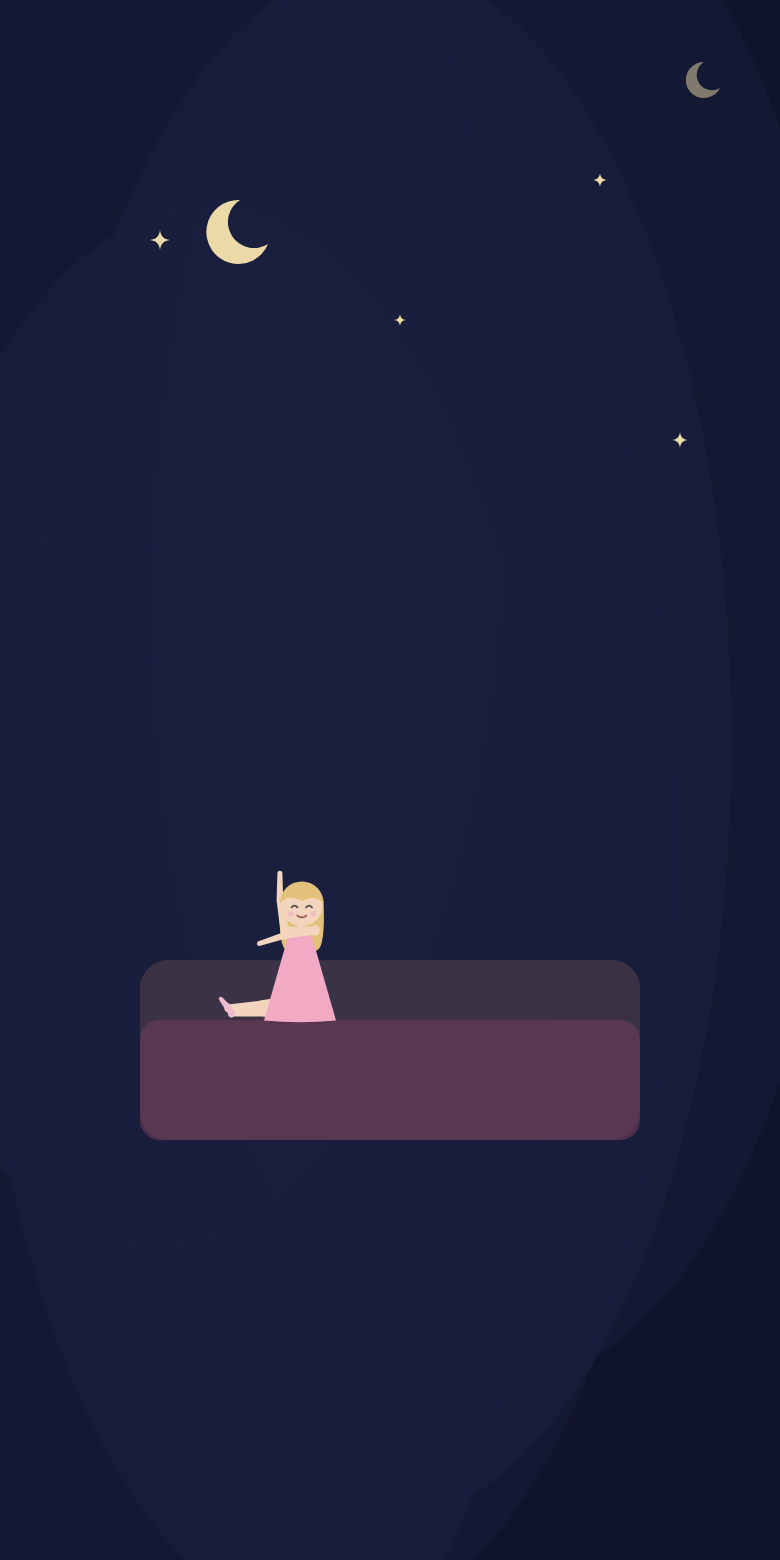
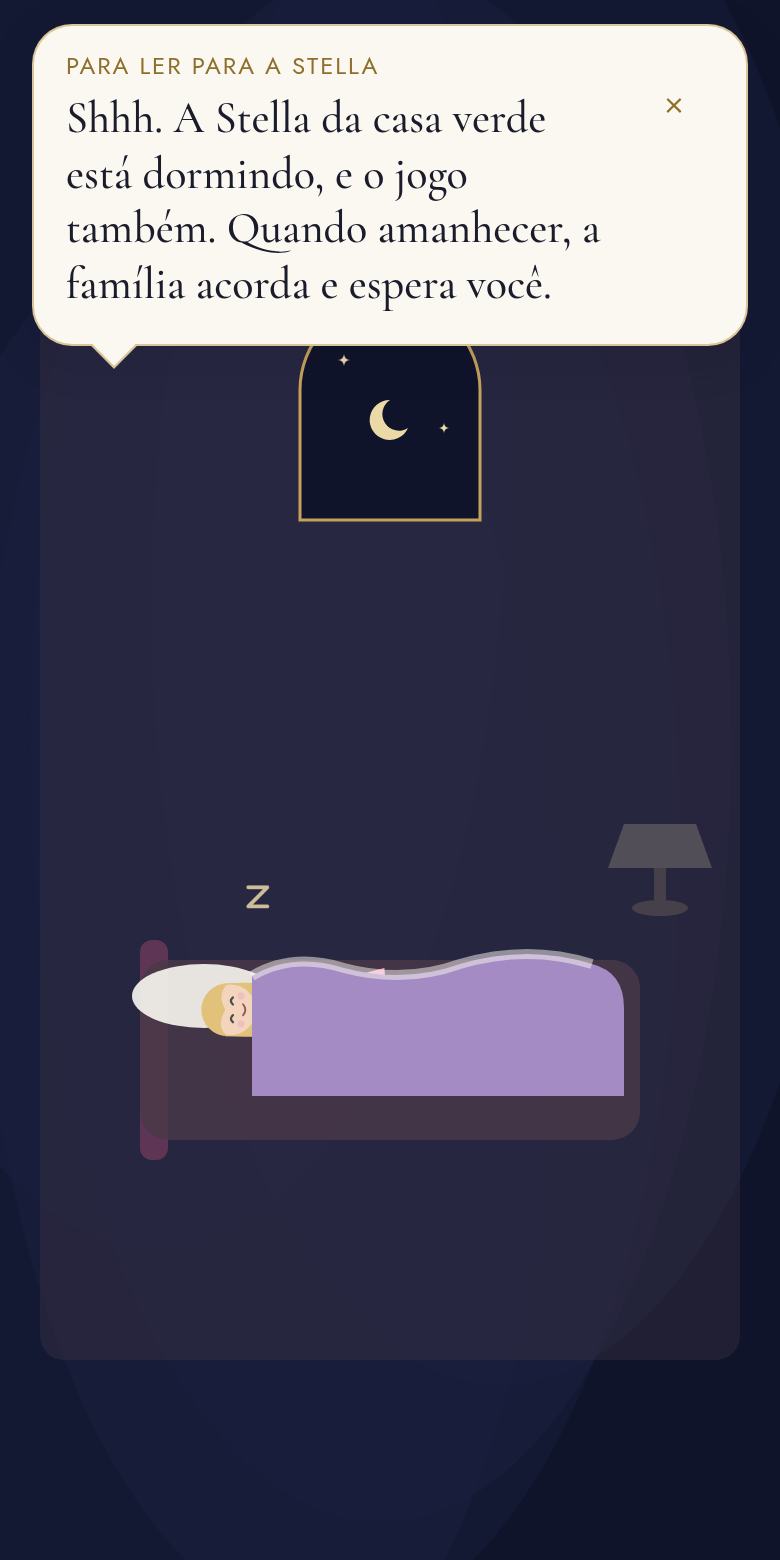
À noite dá para ver onde ela está: o quarto escuro, a Stella deitada, o gatinho, "zzz" subindo (#26)
* O jogo parava de parecer travado: trilha do avanço, fim que se vê e a areia com meta

O teste no celular: "na maioria das telas o jogo é meio travado; na caixa de
areia não fica claro o que fazer nem se estou avançando". Com a CPU seis vezes
mais lenta, todas as telas seguem a 60 quadros: não era lentidão. Era falta de
meta, de avanço e de fim, mais dois pontos que pareciam trava.

- `trilha()` em comum.ts: uma conta por rodada no alto, cheia de ouro quando
  feita, a estrelinha na de agora (o colar da palavra, virado sinal comum).
  Entrou na areia, no som, na roda, na noite, nos bichos, no caderno e no
  relógio. `convidarParaCasa()`: a casinha acende e a mãozinha aponta quando
  a volta de uma tela sem fim termina.
- Areia: no dedo, uma conta por letra e a mãozinha deixa rastro de luz; na
  pá, três montinhos com brilho mostram onde cavar; no balde, três baldes
  fazem um castelo com bandeirinha e o gatinho acende. Rastelo menor e
  tracejado. Com todas as letras (ou os três tesouros), a casinha convida.
- Bichos e relógio ganharam a mãozinha que faltava (o próximo cuidado; o Theo).
- Toque num alvo enquanto uma cena termina ganha o sininho baixinho, em vez
  de silêncio.
- O balão de narração se recolhe numa bolinha quando ela toca na cena, em
  vez de cobrir a casinha e a trilha; tocar na bolinha abre a frase de novo.

Claude-Session: https://claude.ai/code/session_012ZJ9mU6YXKwX84PbRrC1Hh

* A bolinha do balão fica abaixo da casinha, fora do varal da casa
[…]

diff --git a/src/telas/noite.ts b/src/telas/noite.ts
@@ -49,8 +49,9 @@ export function telaNoite(): Tela {
   };
   PASSOS.forEach((p, i) => {
     const [x, y] = pos[i]!;
-    /* o translate fica num <g> de fora: o toque e o mover() põem transform por CSS no alvo, e isso apagaria o atributo */
-    s += `<g transform="translate(${x} ${y})"><g data-passo="${p}" opacity="${feitos.has(p) ? 0.35 : 1}">${desenhos[p]}</g></g>`;
+    /* o translate fica num grupo de fora: o `mover` do toque troca o transform do de dentro.
+       Um quadrado invisível de 72 px faz o alvo inteiro (o livro aberto tem um vão no meio). */
+    s += `<g transform="translate(${x} ${y})"><g data-passo="${p}" opacity="${feitos.has(p) ? 0.35 : 1}"><rect x="-36" y="-36" width="72" height="72" fill="transparent"/>${desenhos[p]}</g></g>`;
   });
   s += `<g class="luz"></g>`;
   const tela = telaSvg(s, { lua: true, fundo: '#1b2140' });
@@ -123,9 +124,12 @@ export function telaNoite(): Tela {
   const dormir = async () => {
     travar(9000);
     const st = svg.querySelector('.stella') as SVGGElement;
-    st.innerHTML = familia.stella(150, 512, 90, 'deitado').svg;
-    const g = svg.querySelector('.gato');
-    if (g) mover(g, -60, -110, 1400);
+    svg.querySelector('.gato')?.remove();
+    st.style.transition = 'opacity 900ms';
+    st.style.opacity = '0';
+    await esperar(900);
+    st.innerHTML = stellaNaCama(!!e.bichos.gato);
+    st.style.opacity = '1';
     await esperar(800);
     /* o combinado: dormir no quarto dela, a noite toda; amanhã a gente conta */
     if (temVoz('noite_combinado')) await falar('noite_combinado');
@@ -149,21 +153,48 @@ export function telaNoite(): Tela {
 }
 
 /**
- * Dormindo: até de manhã, abrir o jogo mostra só a Stella dormindo e a
- * canção baixinha por 20 segundos, e depois silêncio. Nada responde ao
- * toque, a não ser a lua dos pais.
+ * A Stella deitada na cama: a cabeça no travesseiro, olhos fechados, a
+ * coberta até o pescoço. A marionete de pé, deitada de lado (girada), e a
+ * coberta por cima; só a cabeça aparece, e fica claro que ela dorme.
+ */
+export function stellaNaCama(gatinho: boolean): string {
+  let s = `<ellipse cx="102" cy="498" rx="36" ry="16" fill="#fbf8f1" opacity="0.9"/>`;
+  s += `<g transform="rotate(-90 212 506)">${familia.stella(212, 506, 110, 'parado').svg}</g>`;
+  s += `<path d="M126 488q20-12 46-4q30 8 58-2q34-10 66 0q16 4 16 22v44h-186z" fill="#a58bc4"/>`;
+  s += `<path d="M126 488q20-12 46-4q30 8 58-2q34-10 66 0" fill="none" stroke="#fbf8f1" stroke-width="5" opacity="0.5"/>`;
+  if (gatinho) s += gato(282, 492, 16, '#c8b8a6', true);
+  /* o sono: três "z" que sobem da cabeça, um de cada vez */
+  const z = (x: number, y: number, t: number, atraso: number) =>
+    `<path class="zzz" style="animation-delay:${atraso}ms" d="M${x} ${y}h${t}l-${t} ${t}h${t}" fill="none" stroke="#ebd9a8" stroke-width="${t / 5}" stroke-linecap="round" stroke-linejoin="round"/>`;
+  s += z(120, 452, 12, 0) + z(136, 430, 15, 1600) + z(154, 404, 18, 3200);
+  return s;
+}
+
+/**
+ * Dormindo: até de manhã, abrir o jogo mostra o quarto dela no escuro, a
+ * Stella dormindo com o gatinho e a canção baixinha por 20 segundos, e
+ * depois silêncio. Nada responde ao toque, a não ser a lua dos pais. O
+ * balão diz a quem está junto que o jogo também dorme e volta de manhã.
  */
 export function telaDormindo(): Tela {
   let s = `<rect width="390" height="780" fill="#10142a"/>` + veu(0, 0, 390, 780, '#1b2140', 5, 0.4);
-  s += centelha(80, 120, 10, '#ebd9a8') + centelha(300, 90, 7, '#ebd9a8') + centelha(200, 160, 6, '#ebd9a8') + centelha(340, 220, 8, '#ebd9a8');
-  s += `<path d="M120 100a16 16 0 1 0 14 22a13 13 0 1 1-14-22z" fill="#ebd9a8"/>`;
-  s += `<rect x="70" y="480" width="250" height="90" rx="14" fill="#4a3a48" opacity="0.7"/><rect x="70" y="510" width="250" height="60" rx="10" fill="#6e3a5a" opacity="0.6"/>`;
-  s += familia.stella(150, 512, 90, 'deitado').svg;
-  if (estado().bichos.gato) s += gato(250, 528, 14, '#8a8078', true);
+  /* o quarto com a luz apagada */
+  s += `<rect x="20" y="120" width="350" height="560" rx="12" fill="#4a3a48" opacity="0.3"/>`;
+  /* a janela: a lua e a estrela nova da noite */
+  s += arco(150, 150, 90, 110, '#10142a');
+  s += `<path d="M195 200a10 10 0 1 0 9 14a8 8 0 1 1-9-14z" fill="#ebd9a8"/>`;
+  s += centelha(172, 180, 6, '#ebd9a8') + centelha(222, 214, 5, '#ebd9a8') + `<g class="respira">${centelha(210, 166, 10, '#fbf8f1')}</g>`;
+  /* o abajur apagado ao lado da cama */
+  s += `<g transform="translate(330 430)" opacity="0.45"><path d="M-18 -18h36l8 22h-52z" fill="#8a8078"/><rect x="-3" y="4" width="6" height="18" fill="#6e6258"/><ellipse cx="0" cy="24" rx="14" ry="4" fill="#6e6258"/></g>`;
+  /* a cama */
+  s += `<rect x="70" y="470" width="14" height="110" rx="6" fill="#6e3a5a" opacity="0.8"/>`;
+  s += `<rect x="70" y="480" width="250" height="90" rx="14" fill="#4a3a48" opacity="0.8"/>`;
+  s += stellaNaCama(!!estado().bichos.gato);
   const tela = telaSvg(s, { lua: true, fundo: '#10142a' });
   travar(60000);
   tocarFundo('ninar_brahms', { bpm: 56 });
   audio.definirVolumes(0.35, 0.4);
+  anunciar('dormindo');
   const t = window.setTimeout(() => pararFundo(), 20000);
   tela.aoDestruir(() => {
     window.clearTimeout(t);

diff --git a/src/main.ts b/src/main.ts
@@ -76,9 +76,10 @@ montar(app);
 definirVoltar(() => void sessao.voltarParaCasa());
 
 /* a narração para quem joga junto: a cada avanço dela, um balão no topo para ler em voz alta.
-   Ele fica até o "x"; só sai sozinho nas telas onde não cabe (o cantinho dos pais, o styleguide, ela dormindo). */
+   Ele fica até o "x"; só sai sozinho nas telas onde não cabe (o cantinho dos pais, o styleguide).
+   Com ela dormindo o balão fica: é ele que conta a quem está junto que o jogo também dorme até de manhã. */
 const balao = montarBalao(app);
-const SEM_BALAO = new Set(['pais', 'styleguide', 'dormindo']);
+const SEM_BALAO = new Set(['pais', 'styleguide']);
 aoTrocarTela((nome) => {
   if (SEM_BALAO.has(nome)) balao.esconder();
 });

diff --git a/src/ui/base.css b/src/ui/base.css
@@ -129,6 +129,32 @@ body {
     transform: translateY(-60px) scale(1.1);
   }
 }
+/* o sono: um "z" que sobe devagar e some, um de cada vez */
+.zzz {
+  animation: zzz var(--d-sono) ease-in-out infinite both;
+  transform-box: fill-box;
+  transform-origin: center;
+  opacity: 0;
+}
+@keyframes zzz {
+  0% {
+    opacity: 0;
+    transform: translate(0, 0) scale(0.7);
+  }
+  30% {
+    opacity: 0.85;
+  }
+  100% {
+    opacity: 0;
+    transform: translate(14px, -46px) scale(1.15);
+  }
+}
+@media (prefers-reduced-motion: reduce) {
+  .zzz {
+    animation: none;
+    opacity: 0.6;
+  }
+}
 .some {
   transition: opacity var(--d-lento);
   opacity: 0;

diff --git a/src/ui/tokens.css b/src/ui/tokens.css
@@ -99,6 +99,7 @@
   --d-cena: 1200ms;
   --d-pulso: 1800ms;
   --d-respira: 2400ms;
+  --d-sono: 4800ms;
   --ease-sai: cubic-bezier(0.2, 0, 0, 1);
   --ease-entra-sai: cubic-bezier(0.6, 0, 0.2, 1);
 
